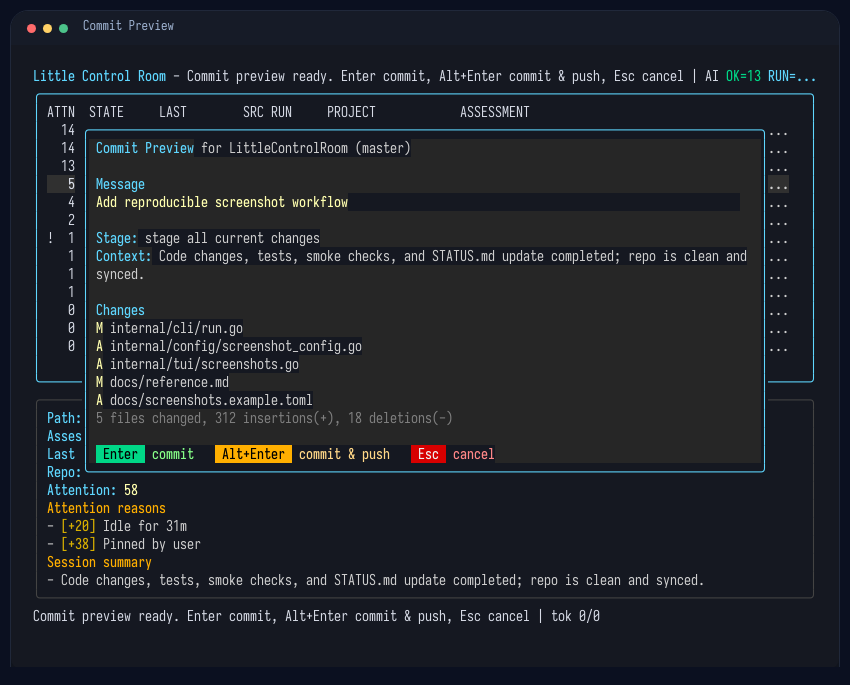
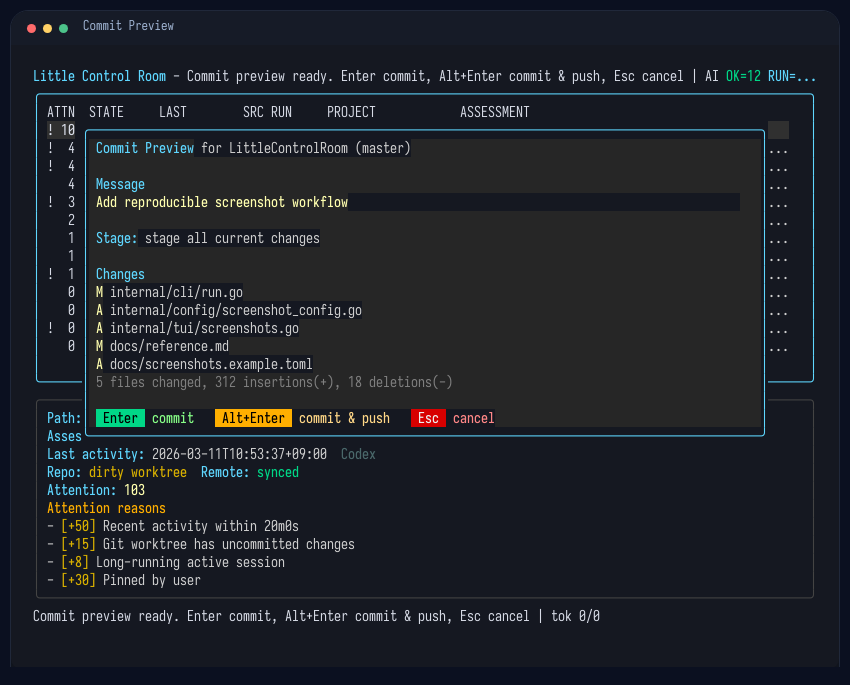
Restore curated screenshots with sanitized paths

diff --git a/internal/tui/screenshots.go b/internal/tui/screenshots.go
@@ -142,7 +142,23 @@ func loadScreenshotData(ctx context.Context, svc *service.Service, cfg config.Sc
 	if err != nil {
 		return screenshotDataSet{}, fmt.Errorf("list projects: %w", err)
 	}
-	return screenshotDataSet{projects: projects}, nil
+
+	sanitizedProjects := make([]model.ProjectSummary, 0, len(projects))
+	details := make(map[string]model.ProjectDetail, len(projects))
+	for _, project := range projects {
+		detail, err := svc.Store().GetProjectDetail(ctx, project.Path, 20)
+		if err != nil {
+			return screenshotDataSet{}, fmt.Errorf("load screenshot detail %s: %w", project.Path, err)
+		}
+		sanitizedDetail := sanitizeScreenshotProjectDetail(detail)
+		sanitizedProjects = append(sanitizedProjects, sanitizedDetail.Summary)
+		details[sanitizedDetail.Summary.Path] = sanitizedDetail
+	}
+
+	return screenshotDataSet{
+		projects: sanitizedProjects,
+		details:  details,
+	}, nil
 }
 
 func screenshotAsset(name, title, rendered string, cfg config.ScreenshotConfig) ScreenshotAsset {
@@ -201,6 +217,82 @@ func (d screenshotDataSet) projectDetail(ctx context.Context, svc *service.Servi
 		return detail, nil
 	}
 	return svc.Store().GetProjectDetail(ctx, path, eventLimit)
+}
+
+func sanitizeScreenshotProjectDetail(detail model.ProjectDetail) model.ProjectDetail {
+	detail.Summary = sanitizeScreenshotProjectSummary(detail.Summary)
+	for i := range detail.Reasons {
+		detail.Reasons[i].Text = sanitizeScreenshotText(detail.Reasons[i].Text)
+	}
+	for i := range detail.Sessions {
+		detail.Sessions[i] = sanitizeScreenshotSession(detail.Sessions[i])
+	}
+	for i := range detail.Artifacts {
+		detail.Artifacts[i].Path = sanitizeScreenshotPath(detail.Artifacts[i].Path)
+		detail.Artifacts[i].Note = sanitizeScreenshotText(detail.Artifacts[i].Note)
+	}
+	for i := range detail.RecentEvents {
+		detail.RecentEvents[i].ProjectPath = sanitizeScreenshotPath(detail.RecentEvents[i].ProjectPath)
+		detail.RecentEvents[i].Payload = sanitizeScreenshotText(detail.RecentEvents[i].Payload)
+	}
+	if detail.LatestSessionClassification != nil {
+		classification := *detail.LatestSessionClassification
+		classification.ProjectPath = sanitizeScreenshotPath(classification.ProjectPath)
+		classification.SessionFile = sanitizeScreenshotPath(classification.SessionFile)
+		classification.Summary = sanitizeScreenshotText(classification.Summary)
+		classification.LastError = sanitizeScreenshotText(classification.LastError)
+		detail.LatestSessionClassification = &classification
+	}
+	return detail
+}
+
+func sanitizeScreenshotProjectSummary(summary model.ProjectSummary) model.ProjectSummary {
+	summary.Path = sanitizeScreenshotPath(summary.Path)
+	summary.Note = sanitizeScreenshotText(summary.Note)
+	summary.MovedFromPath = sanitizeScreenshotPath(summary.MovedFromPath)
+	summary.LatestSessionDetectedProjectPath = sanitizeScreenshotPath(summary.LatestSessionDetectedProjectPath)
+	summary.LatestSessionSummary = sanitizeScreenshotText(summary.LatestSessionSummary)
+	return summary
+}
+
+func sanitizeScreenshotSession(session model.SessionEvidence) model.SessionEvidence {
+	session.ProjectPath = sanitizeScreenshotPath(session.ProjectPath)
+	session.DetectedProjectPath = sanitizeScreenshotPath(session.DetectedProjectPath)
+	session.SessionFile = sanitizeScreenshotPath(session.SessionFile)
+	return session
+}
+
+func sanitizeScreenshotPath(path string) string {
+	if strings.TrimSpace(path) == "" {
+		return ""
+	}
+	return sanitizeScreenshotText(path)
+}
+
+func sanitizeScreenshotText(text string) string {
+	replacements := []struct {
+		from string
+		to   string
+	}{
+		{from: "/Users/davide/dev/repos/", to: "/workspaces/repos/"},
+		{from: "/Users/davide/dev/repos", to: "/workspaces/repos"},
+		{from: "/Users/davide/dev/poncle_repos/", to: "/workspaces/poncle_repos/"},
+		{from: "/Users/davide/dev/poncle_repos", to: "/workspaces/poncle_repos"},
+		{from: "/Users/davide/projects_control_center/", to: "/workspaces/projects_control_center/"},
+		{from: "/Users/davide/projects_control_center", to: "/workspaces/projects_control_center"},
+		{from: "/Users/davide/.codex/", to: "/workspaces/.codex/"},
+		{from: "/Users/davide/.codex", to: "/workspaces/.codex"},
+		{from: "/Users/davide/.local/share/opencode/", to: "/workspaces/.local/share/opencode/"},
+		{from: "/Users/davide/.local/share/opencode", to: "/workspaces/.local/share/opencode"},
+		{from: "/Users/davide/.little-control-room/", to: "/workspaces/.little-control-room/"},
+		{from: "/Users/davide/.little-control-room", to: "/workspaces/.little-control-room"},
+		{from: "/Users/davide/", to: "/workspaces/"},
+		{from: "/Users/davide", to: "/workspaces"},
+	}
+	for _, replacement := range replacements {
+		text = strings.ReplaceAll(text, replacement.from, replacement.to)
+	}
+	return text
 }
 
 func filterScreenshotProjects(projects []model.ProjectSummary, filters []string) ([]model.ProjectSummary, []string) {

diff --git a/internal/tui/screenshots_test.go b/internal/tui/screenshots_test.go
@@ -138,3 +138,71 @@ func TestScreenshotDemoDataSetUsesSafeFixturePaths(t *testing.T) {
 		}
 	}
 }
+
+func TestSanitizeScreenshotProjectDetailRewritesLocalPaths(t *testing.T) {
+	t.Parallel()
+
+	detail := model.ProjectDetail{
+		Summary: model.ProjectSummary{
+			Path:                             "/Users/davide/dev/repos/LittleControlRoom",
+			MovedFromPath:                    "/Users/davide/dev/repos/BatonDeck",
+			LatestSessionDetectedProjectPath: "/Users/davide/dev/repos/LittleControlRoom",
+			LatestSessionSummary:             "Path check: /Users/davide/dev/repos/LittleControlRoom",
+		},
+		Reasons: []model.AttentionReason{
+			{Text: "Recent activity in /Users/davide/dev/poncle_repos/quickgame_03"},
+		},
+		Sessions: []model.SessionEvidence{{
+			ProjectPath:         "/Users/davide/dev/repos/LittleControlRoom",
+			DetectedProjectPath: "/Users/davide/dev/repos/LittleControlRoom",
+			SessionFile:         "/Users/davide/.codex/sessions/demo.jsonl",
+		}},
+		Artifacts: []model.ArtifactEvidence{{
+			Path: "/Users/davide/.local/share/opencode/opencode.db",
+			Note: "artifact under /Users/davide/.local/share/opencode/opencode.db",
+		}},
+		RecentEvents: []model.StoredEvent{{
+			ProjectPath: "/Users/davide/dev/repos/LittleControlRoom",
+			Payload:     "payload /Users/davide/dev/repos/LittleControlRoom",
+		}},
+		LatestSessionClassification: &model.SessionClassification{
+			ProjectPath: "/Users/davide/dev/repos/LittleControlRoom",
+			SessionFile: "/Users/davide/.codex/sessions/demo.jsonl",
+			Summary:     "classification /Users/davide/dev/repos/LittleControlRoom",
+			LastError:   "error /Users/davide/.little-control-room/config.toml",
+		},
+	}
+
+	got := sanitizeScreenshotProjectDetail(detail)
+	for _, candidate := range []string{
+		got.Summary.Path,
+		got.Summary.MovedFromPath,
+		got.Summary.LatestSessionDetectedProjectPath,
+		got.Summary.LatestSessionSummary,
+		got.Reasons[0].Text,
+		got.Sessions[0].ProjectPath,
+		got.Sessions[0].DetectedProjectPath,
+		got.Sessions[0].SessionFile,
+		got.Artifacts[0].Path,
+		got.Artifacts[0].Note,
+		got.RecentEvents[0].ProjectPath,
+		got.RecentEvents[0].Payload,
+		got.LatestSessionClassification.ProjectPath,
+		got.LatestSessionClassification.SessionFile,
+		got.LatestSessionClassification.Summary,
+		got.LatestSessionClassification.LastError,
+	} {
+		if strings.Contains(candidate, "/Users/davide") {
+			t.Fatalf("sanitizeScreenshotProjectDetail() left a local path behind: %q", candidate)
+		}
+	}
+	if got.Summary.Path != "/workspaces/repos/LittleControlRoom" {
+		t.Fatalf("summary path = %q", got.Summary.Path)
+	}
+	if got.Reasons[0].Text != "Recent activity in /workspaces/poncle_repos/quickgame_03" {
+		t.Fatalf("reason text = %q", got.Reasons[0].Text)
+	}
+	if got.Sessions[0].SessionFile != "/workspaces/.codex/sessions/demo.jsonl" {
+		t.Fatalf("session file = %q", got.Sessions[0].SessionFile)
+	}
+}

diff --git a/STATUS.md b/STATUS.md
@@ -1,6 +1,6 @@
 # Little Control Room Status
 
-Last updated: 2026-03-11 10:29 JST (JST)
+Last updated: 2026-03-11 10:54 JST (JST)
 
 ## Current State
 
@@ -59,26 +59,38 @@ Current embedded Codex transport assumption:
 - Older historical notes now live in [docs/status_archive.md](docs/status_archive.md).
 - If a note is mostly historical and no longer affects implementation, archive it instead of keeping it inline here.
 
-## Latest Update (2026-03-11 10:29 JST)
+## Latest Update (2026-03-11 10:54 JST)
 
-- Added an MIT `LICENSE` so the public snapshot has explicit reuse terms before the visibility flip.
-- Created a local pre-public backup archive (git bundle plus working-tree tarball) before rewriting the repo history, so the prior private history and local files remain recoverable off-repo.
-- Repointed local `master` to the clean public snapshot and kept that rewritten history as a single sanitized commit without reintroducing machine-specific paths or private fixture names.
+- Restored the public docs screenshots to the curated real-project allowlist from the local screenshot config instead of the temporary demo dataset, so the repo page once again shows real projects such as `FractalMech`, `roguellm`, `crypto`, and related work.
+- Added screenshot-only path sanitization for live project data, detail panes, classifications, session evidence, and artifact text so rendered screenshots now rewrite local absolute paths like `/Users/davide/...` to `/workspaces/...` while keeping project names intact.
+- Switched `make screenshots` back to the gitignored local `screenshots.local.toml` workflow for the maintainer path, while keeping the `demo_data` example/documentation path available for reproducible sample renders when needed.
+- Regenerated the committed PNG screenshots from the local curated set and confirmed via OCR that the real project names are visible while `/Users/davide` no longer appears in the rendered images.
 - No Codex/OpenCode detector assumptions changed; `docs/codex_cli_footprint.md` stayed aligned with the current footprint expectations.
 
 Verification snapshot:
 
-- Existing verification from the sanitized public snapshot remained the same: `make test`, `make screenshots`, `make scan`, `make doctor`, and `env COLUMNS=100 LINES=28 make tui` had already passed before the license/history-only pass.
-- `git bundle verify` passed for the local pre-public archive backup created before the history rewrite.
-- `make test` passed again after repointing local `master` to the clean public snapshot.
+- `make test` passed.
+- `make screenshots` passed and refreshed `docs/screenshots/main-panel.png`, `docs/screenshots/main-panel-live-cx.png`, `docs/screenshots/codex-embedded.png`, and `docs/screenshots/commit-preview.png` from `screenshots.local.toml`.
+- OCR recheck over the regenerated PNGs confirmed the curated real project names are visible and `/Users/davide` no longer appears in the rendered screenshots; visible paths now use `/workspaces/...`.
+- `make scan` passed at `2026-03-11T10:54:15+09:00` (`activity projects: 80`, `tracked projects: 133`, `updated projects: 1`, `queued classifications: 0`).
+- `make doctor` passed on the cached snapshot dated `2026-03-11T10:54:15+09:00` (`projects: 133`).
+- `env COLUMNS=100 LINES=28 make tui` launched and exited cleanly via `q` as a UI startup smoke test.
 
 Next concrete tasks:
 
-- Force-push the rewritten `master` when ready to replace the remote private history with the clean public snapshot.
 - Decide whether `STATUS.md` and `docs/status_archive.md` should stay public as implementation handoff logs or be trimmed further for a cleaner external-facing repo.
-- Optionally remove the temporary `public-clean` branch locally once the remote rewrite is complete and the new `master` is confirmed.
+- Polish the public GitHub metadata further if desired (description, topics, homepage/social preview).
+- Consider whether the screenshot command should support an explicit committed "public real-projects" config path separate from the maintainer-only local config.
 
 ## Recent Updates
+
+### 2026-03-11 10:35 JST
+
+- Added an MIT `LICENSE` so the public snapshot has explicit reuse terms before the visibility flip.
+- Created a local pre-public backup archive (git bundle plus working-tree tarball) before rewriting the repo history, so the prior private history and local files remain recoverable off-repo.
+- Repointed local `master` to the clean public snapshot and kept that rewritten history as a single sanitized commit without reintroducing machine-specific paths or private fixture names.
+- Force-pushed the rewritten `master` and flipped the GitHub repository visibility to public; the live public page now serves the sanitized one-commit snapshot with `master` as the default branch.
+- No Codex/OpenCode detector assumptions changed; `docs/codex_cli_footprint.md` stayed aligned with the current footprint expectations.
 
 ### 2026-03-11 09:00 JST
 

diff --git a/docs/reference.md b/docs/reference.md
@@ -66,8 +66,7 @@ stuck-threshold = "4h"
 ## Screenshots
 
 - `make screenshots` renders a curated set of fixed-size PNG terminal screenshots for docs.
-- `make screenshots` defaults to the committed safe demo config at [`screenshots.example.toml`](screenshots.example.toml).
-- Common local override path: `./screenshots.local.toml`
+- Default local config path: `./screenshots.local.toml`
 - Override the screenshot config path with `lcroom screenshots --screenshot-config /path/to/screenshots.local.toml`
 - Override the output directory with `lcroom screenshots --output-dir /tmp/lcroom-shots`
 - Committed example file: [`screenshots.example.toml`](screenshots.example.toml)
@@ -104,7 +103,7 @@ The generated set currently includes:
 - `commit-preview.png`
 
 `project_filters`, `selected_project`, and `live_codex_project` match against the project name, the repo directory name, and simple acronyms such as `LCR` for `LittleControlRoom`.
-Use `demo_data = true` for reproducible public docs screenshots and a local config file when you want to capture your own projects.
+Use `demo_data = true` when you want a reproducible sample set, or a local config file when you want screenshots from your own curated projects.
 
 ## TUI Keys
 
